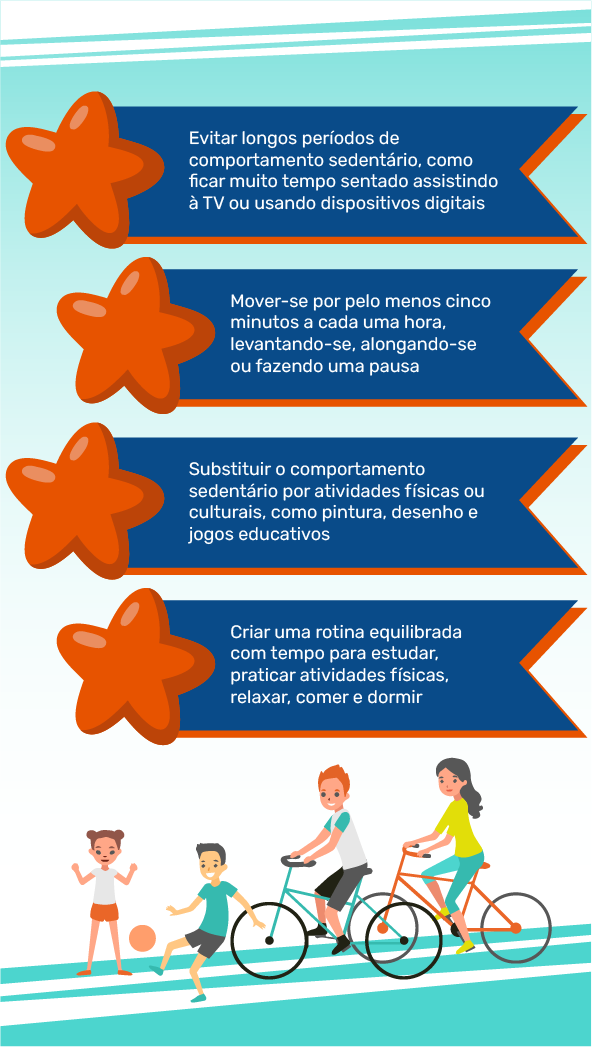
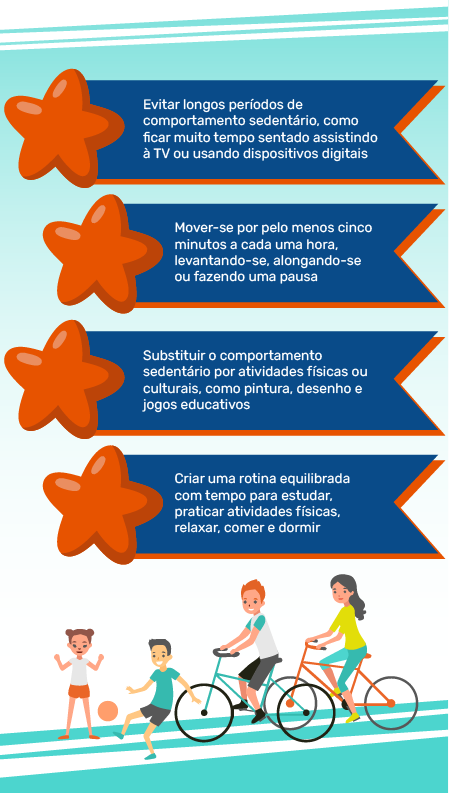
ajustes de imagens

diff --git a/index.html b/index.html
@@ -510,13 +510,18 @@
 
       <h2>Sustentabilidade, sistema alimentar e alimentação saudável</h2>
 
-      <p>Assista aos vídeos a seguir para entender melhor temas como sustentabilidade, sistema alimentar e alimentação saudável. </p>
+      <p>Assista ao vídeo a seguir para entender melhor temas como sustentabilidade, sistema alimentar e alimentação saudável.</p>
 
-      <p class="no-print">Clique ou toque sobre a tela para assistir aos vídeos.</p>
-
-      <div class="espera-video">Espera video</div>
+      <p class="no-print">Clique ou toque sobre a tela para assistir ao vídeo.</p>
 
       <div class="espera-video">Espera video</div>
+
+       
+
+ 
+
+ 
+
 
       <div class="caixa">
         <p>Agora que você já conheceu esses novos conceitos sobre alimentação, clique em seu perfil e aproveite este conteúdo preparado para você.</p>

diff --git a/HTML_educadores/index.html b/HTML_educadores/index.html
@@ -158,7 +158,7 @@
                                       
                                   </tbody>
                                 </table>
-                                <figcaption class="figure-caption text-center">Possibilidades de proposição <br> Fonte: Adaptado de Maldonado <i>et al</i>. (2011) </figcaption>
+                                <figcaption class="figure-caption text-center">Possibilidades de proposição <br> Fonte: Adaptado de Maldonado <i>et al</i>. (2021) </figcaption>
 
                           </div>
           
